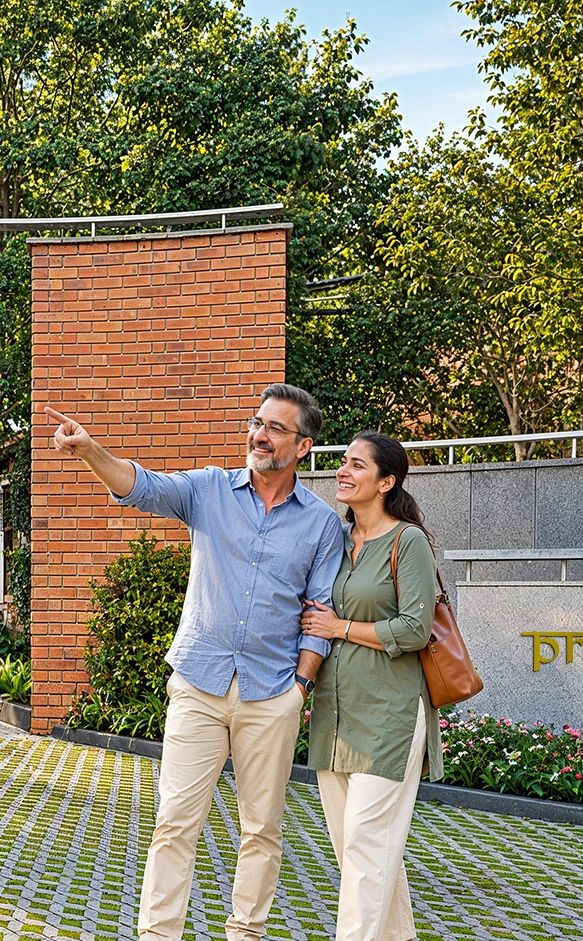
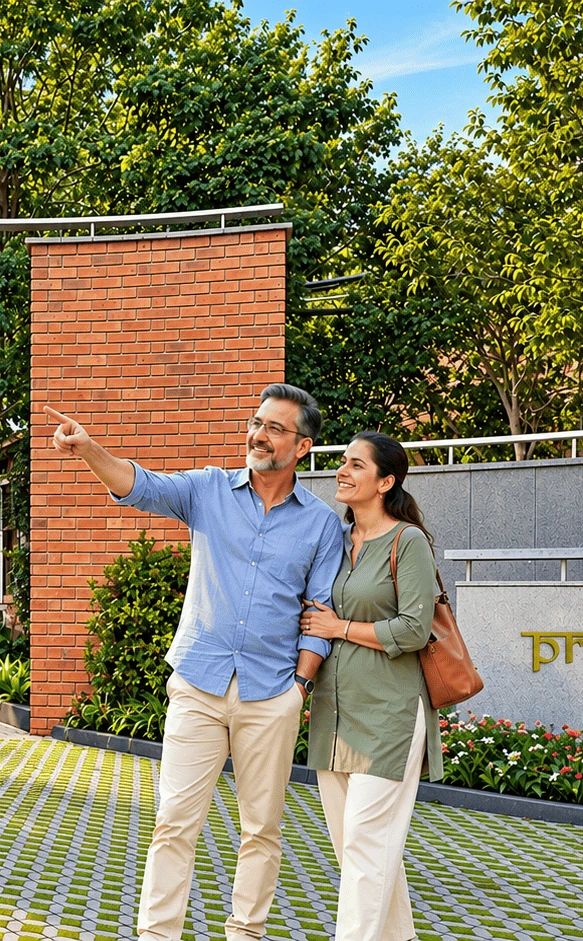
Hero: replace background image

diff --git a/index.html b/index.html
@@ -14,7 +14,7 @@
   <link rel="icon" href="assets/images/favicon.png" type="image/png">
   <link rel="preload" href="assets/fonts/CormorantGaramond-var.woff2" as="font" type="font/woff2" crossorigin>
   <link rel="preload" href="assets/fonts/Montserrat-var.woff2" as="font" type="font/woff2" crossorigin>
-  <link rel="preload" as="image" href="assets/images/hero-main-m.webp" imagesrcset="assets/images/hero-main-m.webp 583w, assets/images/hero-main.webp 1672w" imagesizes="(max-width: 39.99rem) 583px, 1672px" fetchpriority="high">
+  <link rel="preload" as="image" href="assets/images/hero-main-m.webp?v=3" imagesrcset="assets/images/hero-main-m.webp?v=3 583w, assets/images/hero-main.webp?v=3 1672w" imagesizes="(max-width: 39.99rem) 583px, 1672px" fetchpriority="high">
   <link rel="stylesheet" href="css/main.min.css">
 </head>
 <body class="page-home page-v2">
@@ -114,7 +114,7 @@
   <!-- ============ HERO ============ -->
   <section class="hero" id="top" aria-labelledby="hero-title">
     <div class="hero__bg" aria-hidden="true">
-      <picture><source media="(max-width: 39.99rem)" srcset="assets/images/hero-main-m.webp"><img src="assets/images/hero-main.webp" width="1672" height="941" alt="" class="hero__bg-image" fetchpriority="high" decoding="async"></picture>
+      <picture><source media="(max-width: 39.99rem)" srcset="assets/images/hero-main-m.webp?v=3"><img src="assets/images/hero-main.webp?v=3" width="1672" height="941" alt="" class="hero__bg-image" fetchpriority="high" decoding="async"></picture>
     </div>
     <div class="hero__overlay" aria-hidden="true"></div>
     <div class="hero__leaves" aria-hidden="true" data-leaves></div>
